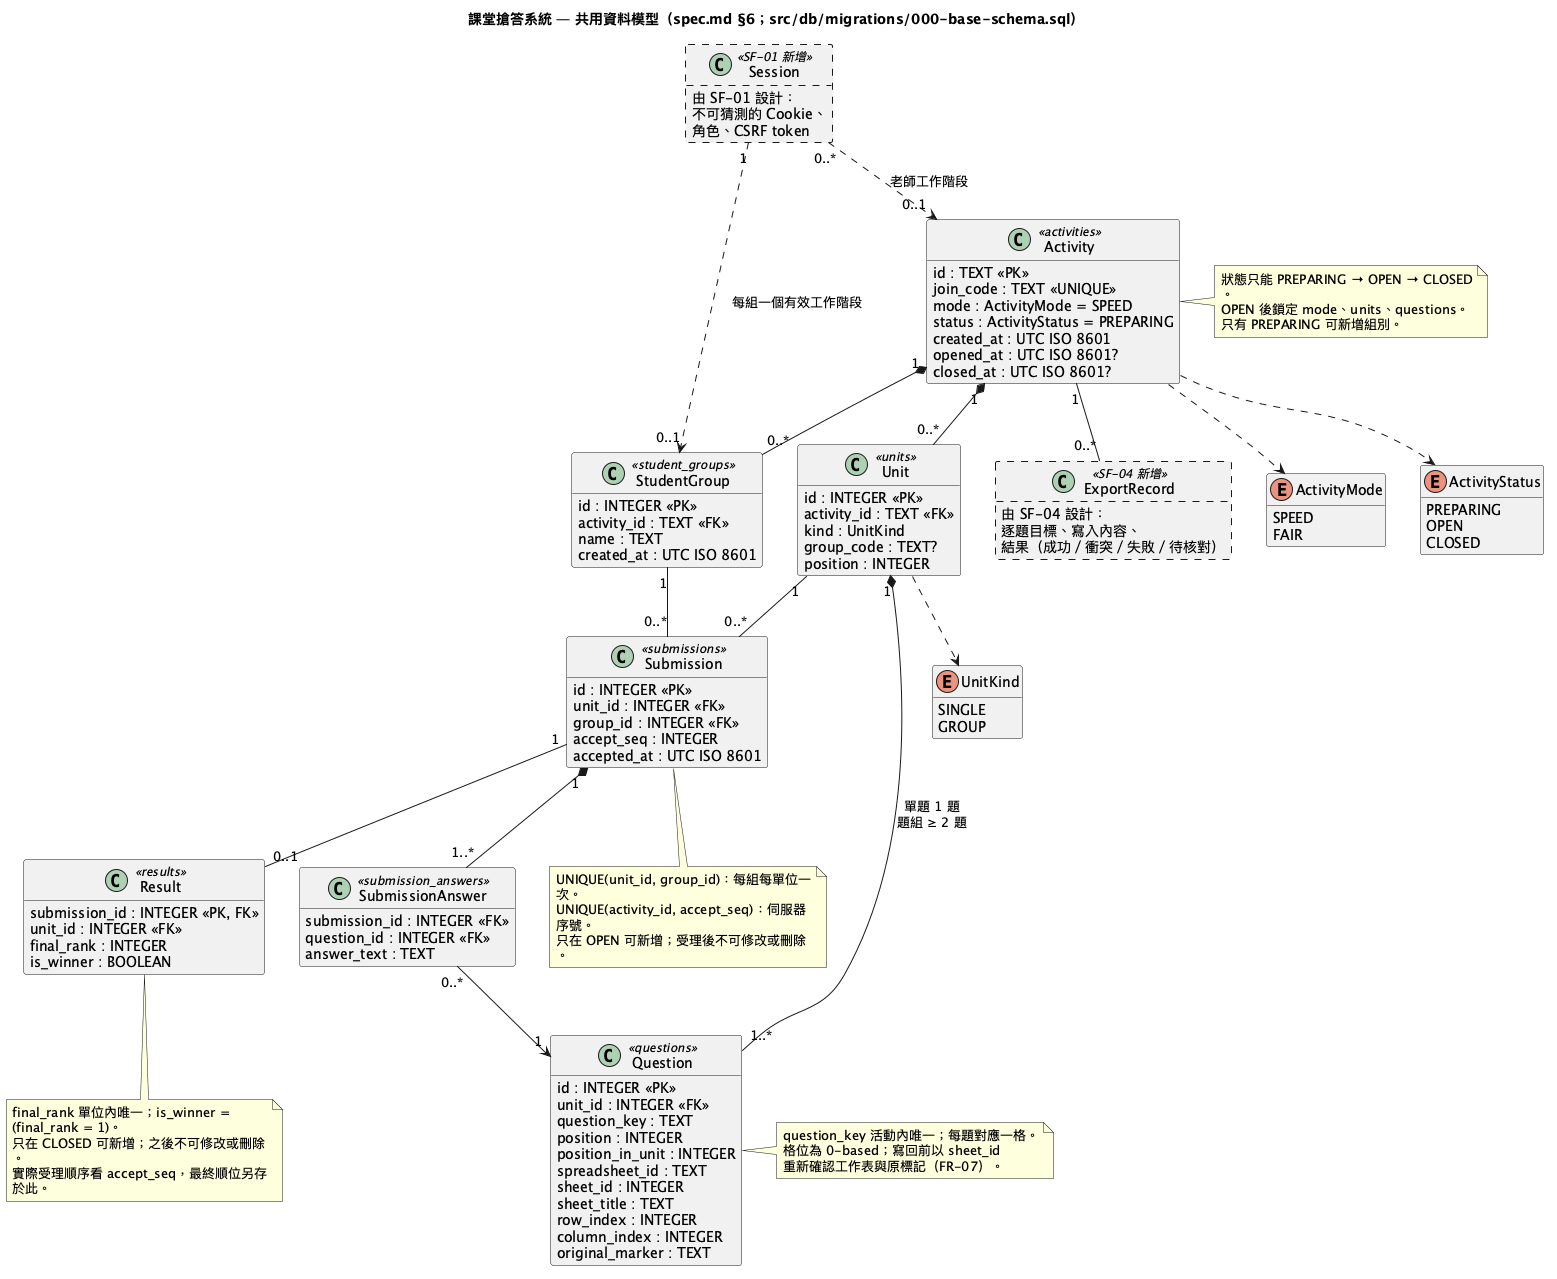
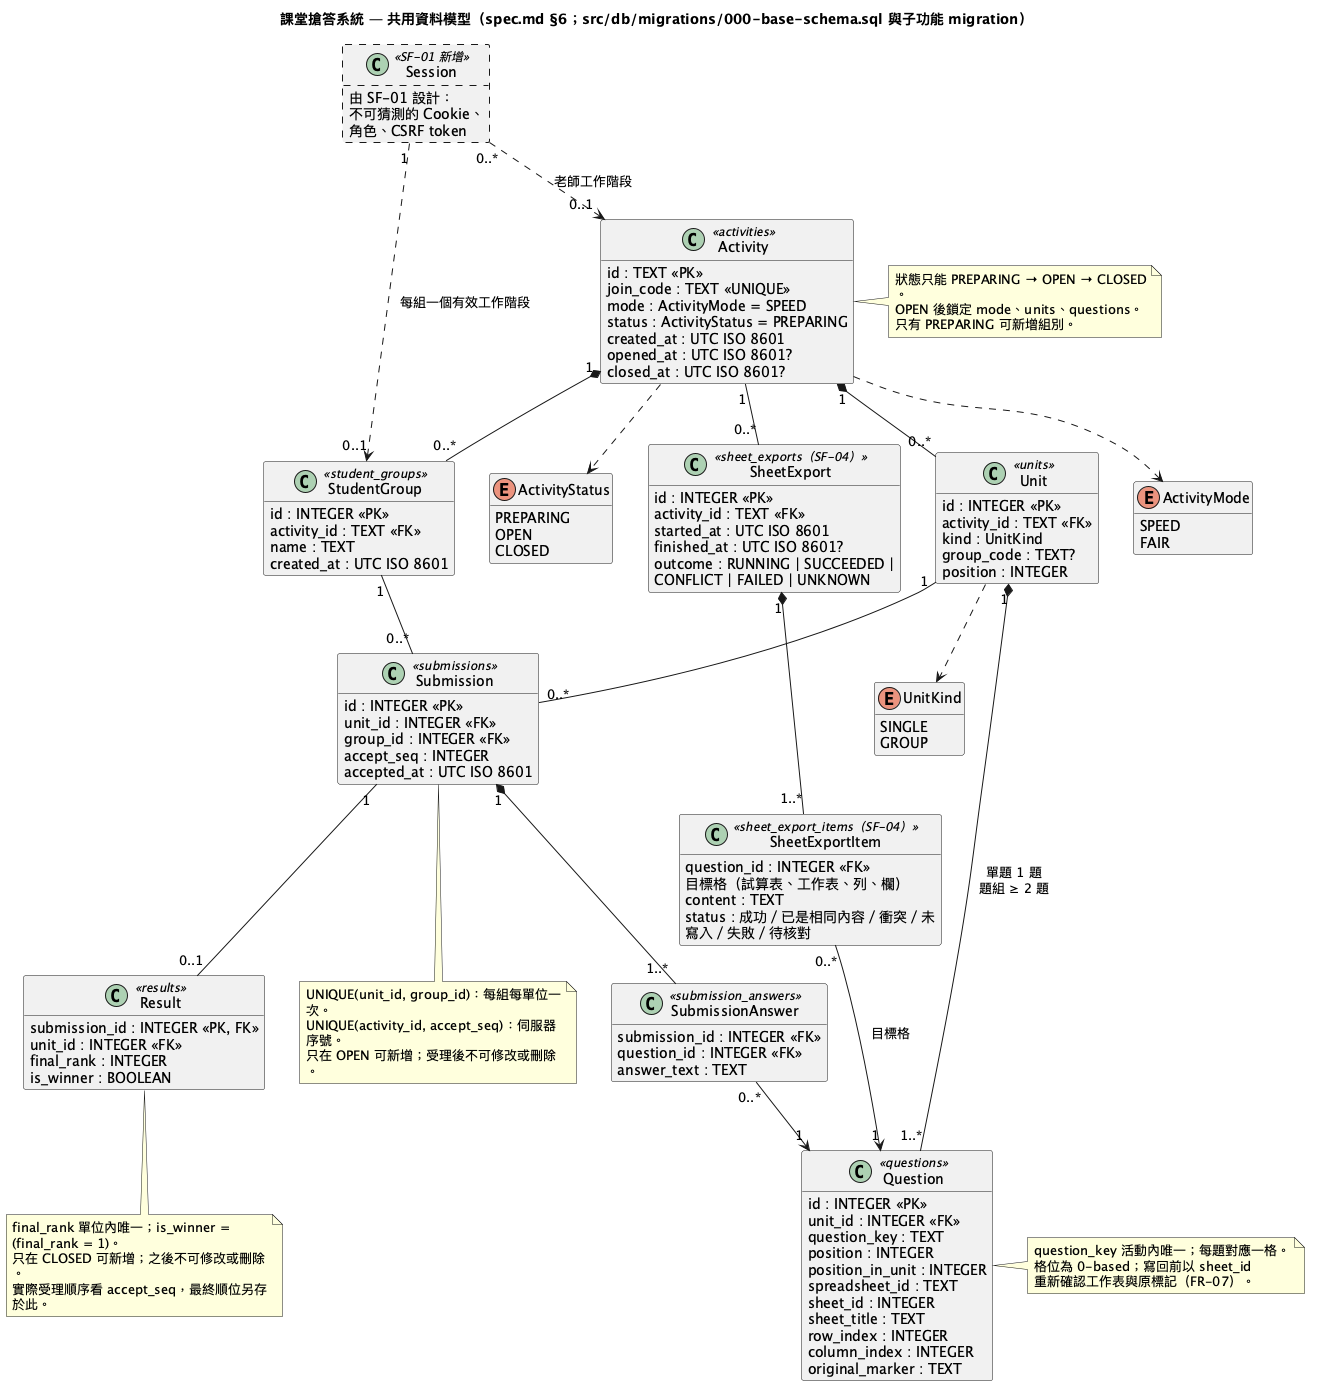
docs(diagrams): sync SF-04 and the shared data model with the implementation

diff --git a/specs/004-results-export/diagram-sync.md b/specs/004-results-export/diagram-sync.md
@@ -1,0 +1,26 @@
+# SF-04 圖表同步紀錄
+
+核對日期為 2026-11-20，對照 commit `e340380` 的實作與系統基準圖。沒有偏離 plan.md 或規格的實作；
+下表的 updated 都是實作時已記錄在 plan.md、research.md 或 data-model.md 的細節，同步補進圖表。
+
+| 圖表 | 核對項目 | 程式位置 | 狀態 |
+| --- | --- | --- | --- |
+| Component | 教師、學生結果頁與共用結果表 | `public/teacher/results-export.js`、`public/student/results-export.js`、`public/js/results-view.js` | match |
+| Component | 頁面事件也來自 SF-01（`teacher-activity`、`student-activity`） | `public/teacher/results-export.js`、`public/student/results-export.js` | updated |
+| Component | 匯出器介面為 `createSheetsExporter`（`preview`、`run`、`latest`）與 `classifyTarget` | `src/features/results-export/sheets-export.js` | updated |
+| Component | 使用 SF-01 `getActivity` 與 SF-02 `cellAddress`（皆為匯出的函式） | `results.js`、`sheets-export.js`、`export-records.js` | updated |
+| Component | `app.js` 建立 SF-02 與 SF-04 共用的 gateway | `src/app.js` | updated |
+| Component | SF-03 結束交易呼叫 `saveFinalResults`；gateway 新增 `readTargets`、`writeCells` | `src/features/realtime-buzzer/state.js`、`src/features/sheets-import/gateway.js` | match |
+| Class | `results` 欄位、單位內唯一順位與不可修改 | `000-base-schema.sql`、`src/features/results-export/results.js` | match |
+| Class | `sheet_exports` 的 RUNNING 與 `finished_at` CHECK、部分唯一索引 | `src/db/migrations/004-02-sheet-exports.sql` | updated |
+| Class | `sheet_export_items` 保存寫回當下的 `sheet_title` | `src/db/migrations/004-02-sheet-exports.sql` | updated |
+| Class | `export-records.js` 的函式（`updateItems`、`abandonRun`、`readExport`，以及帶 `clock` 的參數） | `src/features/results-export/export-records.js` | updated |
+| Class | `ResultView` 含 `closedAt`，單位含 `id`、`kind`、`position` | `src/features/results-export/results.js` | updated |
+| Sequence：結束、結果與 CSV | 結束交易內保存結果、兩種角色讀取結果、CSV 下載 | `state.js`、`router.js`、`results.js`、`csv.js` | match |
+| Sequence：結束、結果與 CSV | CSV 回應標頭；重新整理頁面時同樣觸發載入 | `router.js`、`public/*/results-export.js` | updated |
+| Sequence：寫回 | 預覽、互斥、寫入前核對、整批停止、單一批次寫入、回讀、待核對 | `sheets-export.js`、`export-records.js`、`gateway.js` | match |
+| Sequence：寫回 | 核對讀取失敗的分支、衝突時已是相同內容題的紀錄、非預期錯誤的處理、重新整理時的最近紀錄 | `sheets-export.js`、`export-records.js`、`router.js` | updated |
+| system-class | 「SF-04 新增」的匯出紀錄佔位改為 `sheet_exports`、`sheet_export_items` | `src/db/migrations/004-02-sheet-exports.sql` | updated |
+| system-component、system-sequence | SF-04 與 SF-02 gateway 的關係、結束與寫回流程 | `src/app.js`、`src/features/results-export/` | match |
+
+以 `npm run diagrams -- diagrams/004-results-export-*.puml diagrams/system-class.puml` 重新產生 5 張 PNG。

diff --git a/specs/004-results-export/tasks.md b/specs/004-results-export/tasks.md
@@ -132,7 +132,7 @@ description: "SF-04 結果與匯出的任務清單"
 - [X] T033 執行 `npm test`，全部通過
 - [X] T034 以 `npm start` 啟動並以瀏覽器走一次 quickstart.md 的本機流程（結果自動顯示、CSV 下載），確認畫面與鍵盤操作
 - [X] T035 建立 `specs/004-results-export/acceptance.md`：列出每個 AC 對應的自動化測試，以及待真實雲端試算表與試算表軟體完成的人工驗收項目（AC-12、AC-13、AC-14、AC-17、AC-02、AC-20）
-- [ ] T036 依 `after_implement` hook 執行 `/speckit-plantuml-sync`，產生 `specs/004-results-export/diagram-sync.md` 並更新圖表
+- [X] T036 依 `after_implement` hook 執行 `/speckit-plantuml-sync`，產生 `specs/004-results-export/diagram-sync.md` 並更新圖表
 
 ---
 
